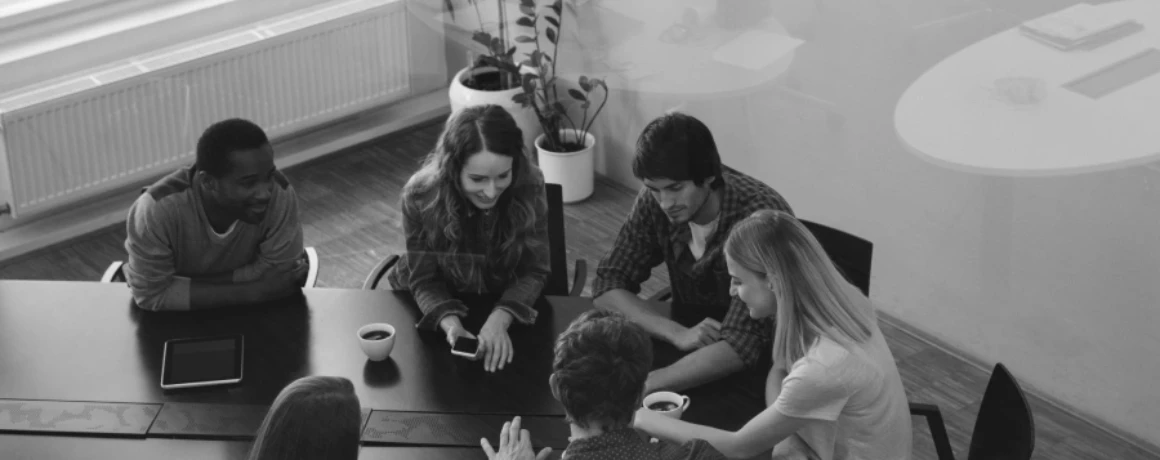
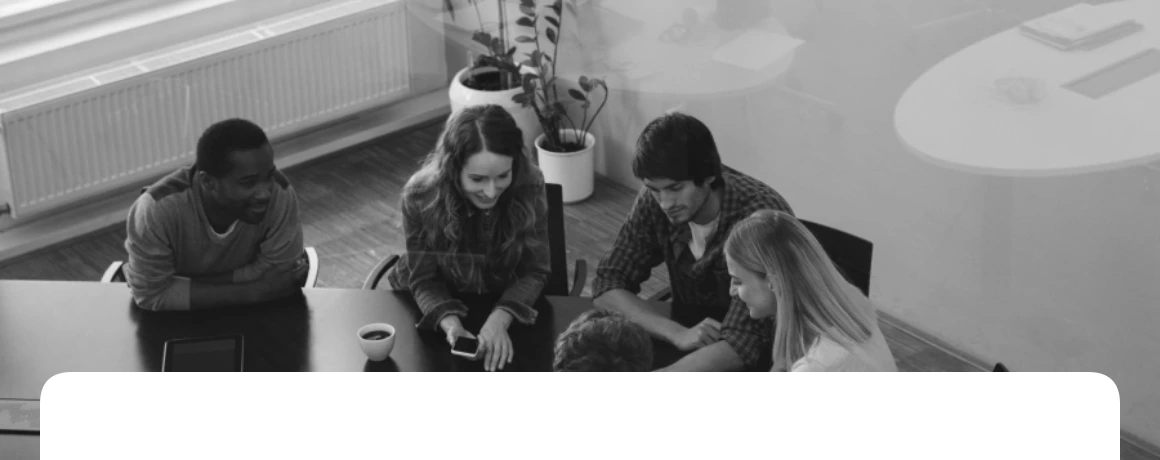
email temlate ui fixed

Changed region(s): [[0.031, 0.7913, 0.9931, 1.0]]

diff --git a/pages/api/queries/query.js b/pages/api/queries/query.js
@@ -93,8 +93,6 @@ function sendThankYou(lead) {
      <style> block keep the desktop figures, which are the safe ones. */
   @media only screen and (max-width:480px) {
     .vq-pad { padding-left:20px !important; padding-right:20px !important; }
-    .vq-hero { padding-top:112px !important; background-size:100% auto !important; }
-    .vq-card { width:100% !important; }
     .vq-logo { width:60px !important; max-width:60px !important; }
     .vq-copy { font-size:14px !important; line-height:22px !important; }
   }
@@ -103,89 +101,22 @@ function sendThankYou(lead) {
 <body style="margin:0;padding:0;background:#F2F2F5;">
 <div style="background:#F2F2F5;padding:26px 12px 30px;font-family:-apple-system,BlinkMacSystemFont,'Segoe UI',Helvetica,Arial,sans-serif;">
 
-  <!-- Outlook gets the photograph as its own row: it ignores CSS background
-       images on a cell, so the overlap below would leave it with a gap and no
-       picture. Everything else draws the photo as the cell's background and
-       pads the card down onto its lower edge -- Gmail strips negative margins,
-       which is what used to make the overlap. -->
-  <!--[if mso]>
-  <table role="presentation" cellpadding="0" cellspacing="0" align="center" width="580" style="width:580px;">
-    <tr><td align="center" style="padding:0;">
-      <img src="${BANNER}" width="580" height="230" alt="" style="display:block;border:0;outline:none;" />
-    </td></tr>
-    <tr><td align="center" style="padding:0;">
-  <table class="vq-card" role="presentation" cellpadding="0" cellspacing="0" align="center" width="540" style="width:540px;max-width:540px;background:#ffffff;border-radius:16px;text-align:left;">
+  <!-- The white card's top edge is part of the photograph, so the overlap
+       survives clients that strip CSS backgrounds, media queries and negative
+       margins -- which is all three of the things the phone Gmail app strips.
+       Both are percentages of the same 580 wrapper, so they stay aligned at
+       any width. -->
+  <table role="presentation" cellpadding="0" cellspacing="0" align="center" width="580" style="width:100%;max-width:580px;margin:0 auto;border-collapse:collapse;">
     <tr>
-      <td align="center" style="padding:46px 28px 2px;text-align:center;">
-        <img class="vq-logo" src="${LOGO}" width="70" alt="Viralon" style="display:block;margin:0 auto;border:0;outline:none;width:70px;max-width:70px;height:auto;" />
-        <div style="margin:8px 0 0;color:#14121F;font-size:11px;line-height:15px;letter-spacing:.3px;font-weight:600;">Nothing works alone</div>
+      <td align="center" style="padding:0;font-size:0;line-height:0;">
+        <img src="${BANNER}" width="580" alt="" style="display:block;width:100%;max-width:580px;height:auto;border-radius:16px 16px 0 0;border:0;outline:none;" />
       </td>
     </tr>
-
     <tr>
-      <td class="vq-pad" style="padding:22px 30px 0;">
-        <p class="vq-copy" style="margin:0 0 10px;color:#14121F;font-size:15px;line-height:24px;">Hi ${esc(first)},</p>
-        <p class="vq-copy" style="margin:0 0 18px;color:#3F3D4A;font-size:15px;line-height:24px;">
-          Thank you for getting in touch. Our representative will call you within 24 hours.
-        </p>
-        <p class="vq-copy" style="margin:0 0 16px;color:#14121F;font-size:15px;line-height:24px;font-weight:700;">
-          Here is what you sent us:
-        </p>
-      </td>
-    </tr>
-
+      <td align="center" style="padding:0;text-align:center;">
+  <table class="vq-card" role="presentation" cellpadding="0" cellspacing="0" align="center" width="93%" style="width:93.1%;max-width:540px;background:#ffffff;border-radius:0 0 16px 16px;text-align:left;">
     <tr>
-      <td class="vq-pad" style="padding:0 30px;">
-        <table role="presentation" cellpadding="0" cellspacing="0" width="100%" style="width:100%;">
-          ${rowsHtml}
-        </table>
-      </td>
-    </tr>
-
-    <tr>
-      <td class="vq-pad" style="padding:24px 30px 0;">
-        <p class="vq-copy" style="margin:0 0 18px;color:#3F3D4A;font-size:15px;line-height:24px;">
-          Anything wrong, or anything you want us to look at before the call? Just reply to this email.
-        </p>
-        <p class="vq-copy" style="margin:0 0 2px;color:#14121F;font-size:15px;line-height:24px;">Regards,</p>
-        <p class="vq-copy" style="margin:0 0 26px;color:#14121F;font-size:15px;line-height:24px;font-weight:700;">Team Viralon</p>
-      </td>
-    </tr>
-
-    <tr>
-      <td class="vq-pad" align="center" style="padding:0 30px 20px;text-align:center;border-top:1px solid #EDEDF1;">
-        <p style="margin:18px 0 4px;color:#8A8A94;font-size:12px;line-height:18px;">
-          If you have any questions, please email us at
-          <a href="mailto:info@viralon.in" style="color:#14121F;text-decoration:none;font-weight:600;">info@viralon.in</a>
-        </p>
-        <p style="margin:0 0 14px;color:#8A8A94;font-size:12px;line-height:18px;">
-          Our team can answer anything about this enquiry, or talk you through what we would do next.
-        </p>
-        <div style="margin:0 0 4px;">${social}</div>
-      </td>
-    </tr>
-
-    <tr>
-      <td align="center" style="padding:14px 24px 16px;background:#E8F4FF;border-radius:0 0 16px 16px;text-align:center;">
-        <p style="margin:0 0 3px;font-size:12px;line-height:17px;">
-          <a href="${SITE}" style="color:#0088FF;text-decoration:none;font-weight:600;">Team Viralon &middot; viralon.in</a>
-        </p>
-        <p style="margin:0;color:#7C879B;font-size:11px;line-height:16px;">
-          Sent because you asked us to get in touch. Reply to this mail to reach us directly.
-        </p>
-      </td>
-    </tr>
-  </table>
-    </td></tr>
-  </table>
-  <![endif]-->
-  <!--[if !mso]><!-->
-  <table role="presentation" cellpadding="0" cellspacing="0" align="center" width="580" style="width:100%;max-width:580px;margin:0 auto;border-collapse:separate;">
-    <tr>
-      <td class="vq-hero" align="center" background="${BANNER}" style="padding:186px 0 0;text-align:center;border-radius:16px;background-image:url('${BANNER}');background-repeat:no-repeat;background-position:center top;background-size:580px 230px;">
-  <table class="vq-card" role="presentation" cellpadding="0" cellspacing="0" align="center" width="540" style="width:540px;max-width:540px;background:#ffffff;border-radius:16px;text-align:left;">
-    <tr>
-      <td align="center" style="padding:46px 28px 2px;text-align:center;">
+      <td align="center" style="padding:16px 28px 2px;text-align:center;">
         <img class="vq-logo" src="${LOGO}" width="70" alt="Viralon" style="display:block;margin:0 auto;border:0;outline:none;width:70px;max-width:70px;height:auto;" />
         <div style="margin:8px 0 0;color:#14121F;font-size:11px;line-height:15px;letter-spacing:.3px;font-weight:600;">Nothing works alone</div>
       </td>
@@ -248,7 +179,6 @@ function sendThankYou(lead) {
       </td>
     </tr>
   </table>
-  <!--<![endif]-->
 
 </div>
 </body>
